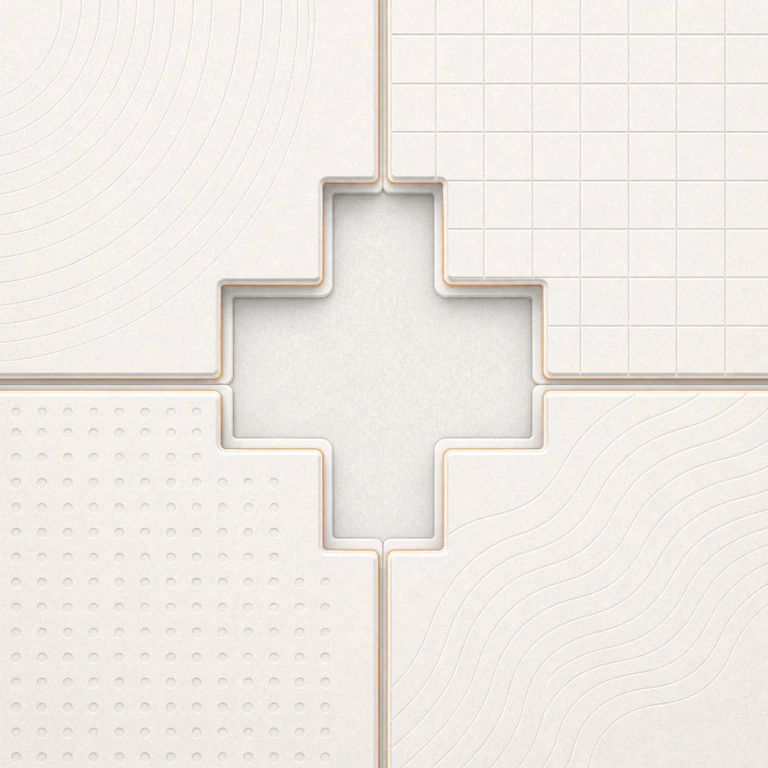
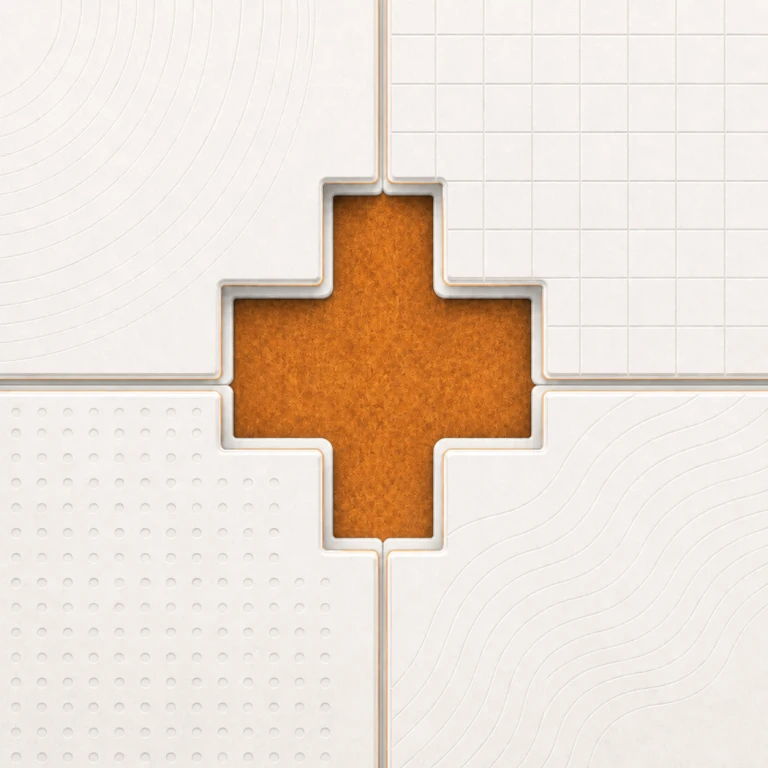
refactor: migrate third-party games to community games

Changed region(s): [[0.2812, 0.25, 0.7188, 0.7188]]

diff --git a/frontend/src/communityGameRegistry.ts b/frontend/src/communityGameRegistry.ts
@@ -5,10 +5,10 @@ import type {
   GameRegistration,
 } from './game-platform/types'
 import { createScoredGameRecords } from './game-platform/recordFormatting'
-import { GENERATED_THIRD_PARTY_GAME_MODULES } from './generated/thirdPartyGameModules'
+import { GENERATED_COMMUNITY_GAME_MODULES } from './generated/communityGameModules'
 import type { PluginArcadeGameKey } from './types/arcade'
 
-export interface ThirdPartyGameManifest {
+export interface CommunityGameManifest {
   $schema?: string
   apiVersion: 1
   version: string
@@ -48,11 +48,11 @@ export interface GeneratedPluginModule {
   status: GameAvailability
   order: number
   artwork?: BuiltinGameArtwork
-  manifest: ThirdPartyGameManifest
+  manifest: CommunityGameManifest
   loadView: () => Promise<PluginViewModule>
 }
 
-function defaultRules(manifest: ThirdPartyGameManifest): Record<string, unknown> {
+function defaultRules(manifest: CommunityGameManifest): Record<string, unknown> {
   const defaults: Record<string, unknown> = {
     allowSpectators: manifest.capabilities.spectators,
   }
@@ -68,7 +68,7 @@ function defaultRules(manifest: ThirdPartyGameManifest): Record<string, unknown>
 }
 
 function ruleLabels(
-  manifest: ThirdPartyGameManifest,
+  manifest: CommunityGameManifest,
   options: Readonly<Record<string, unknown>>,
 ): string[] {
   const labels = [...(manifest.ruleLabels ?? [])]
@@ -78,7 +78,7 @@ function ruleLabels(
   return labels
 }
 
-export function buildThirdPartyGameRegistration(
+export function buildCommunityGameRegistration(
   generated: GeneratedPluginModule,
 ): GameRegistration<PluginArcadeGameKey> {
   const { artwork, directory, manifest, order, status } = generated
@@ -88,7 +88,7 @@ export function buildThirdPartyGameRegistration(
       setup: () => () => h(
         'section',
         { class: 'surface plugin-game-load-error', role: 'alert' },
-        '第三方游戏界面加载失败，请联系插件作者。',
+        '社区游戏界面加载失败，请联系插件作者。',
       ),
     },
   })
@@ -97,7 +97,7 @@ export function buildThirdPartyGameRegistration(
     : createScoredGameRecords(manifest.records.scoreKind, manifest.name)
   return Object.freeze({
     key: manifest.id,
-    source: 'third_party',
+    source: 'community',
     availability: status,
     plugin: Object.freeze({
       version: manifest.version,
@@ -139,7 +139,7 @@ export function buildThirdPartyGameRegistration(
   })
 }
 
-export const THIRD_PARTY_GAME_REGISTRATIONS = Object.freeze(
-  (GENERATED_THIRD_PARTY_GAME_MODULES as readonly GeneratedPluginModule[])
-    .map(buildThirdPartyGameRegistration),
+export const COMMUNITY_GAME_REGISTRATIONS = Object.freeze(
+  (GENERATED_COMMUNITY_GAME_MODULES as readonly GeneratedPluginModule[])
+    .map(buildCommunityGameRegistration),
 )

diff --git a/frontend/src/communityGameRegistry.test.ts b/frontend/src/communityGameRegistry.test.ts
@@ -1,22 +1,22 @@
 import { defineComponent } from 'vue'
-import { GENERATED_THIRD_PARTY_GAME_MODULES } from './generated/thirdPartyGameModules'
+import { GENERATED_COMMUNITY_GAME_MODULES } from './generated/communityGameModules'
 import {
-  buildThirdPartyGameRegistration,
-  THIRD_PARTY_GAME_REGISTRATIONS,
+  buildCommunityGameRegistration,
+  COMMUNITY_GAME_REGISTRATIONS,
   type GeneratedPluginModule,
-  type ThirdPartyGameManifest,
-} from './thirdPartyGameRegistry'
+  type CommunityGameManifest,
+} from './communityGameRegistry'
 
-describe('third-party game registrations', () => {
+describe('community game registrations', () => {
   it('adapts every generated module without knowing concrete plugin ids', () => {
     const generatedModules = (
-      GENERATED_THIRD_PARTY_GAME_MODULES as readonly GeneratedPluginModule[]
+      GENERATED_COMMUNITY_GAME_MODULES as readonly GeneratedPluginModule[]
     )
-    expect(THIRD_PARTY_GAME_REGISTRATIONS.map(({ key }) => key)).toEqual([
+    expect(COMMUNITY_GAME_REGISTRATIONS.map(({ key }) => key)).toEqual([
       ...generatedModules.map(({ manifest }) => manifest.id),
     ])
-    expect(THIRD_PARTY_GAME_REGISTRATIONS.every(
-      ({ source }) => source === 'third_party',
+    expect(COMMUNITY_GAME_REGISTRATIONS.every(
+      ({ source }) => source === 'community',
     )).toBe(true)
   })
 
@@ -45,7 +45,7 @@ describe('third-party game registrations', () => {
       },
       records: { scoreKind: 'time_trial' },
       defaultOptions: { listed: false },
-    } as const satisfies ThirdPartyGameManifest
+    } as const satisfies CommunityGameManifest
     const generated: GeneratedPluginModule = {
       directory: 'plugin-test-game',
       status: 'enabled',
@@ -58,11 +58,11 @@ describe('third-party game registrations', () => {
       loadView: async () => ({ default: defineComponent({ template: '<main />' }) }),
     }
 
-    const registration = buildThirdPartyGameRegistration(generated)
+    const registration = buildCommunityGameRegistration(generated)
 
     expect(registration).toMatchObject({
       key: 'plugin-test-game',
-      source: 'third_party',
+      source: 'community',
       availability: 'enabled',
       catalog: {
         name: '测试插件',

diff --git a/frontend/src/components/GameCategoryCard.vue b/frontend/src/components/GameCategoryCard.vue
@@ -90,6 +90,7 @@ const categoryArtwork = computed(() => {
 <style scoped>
 .game-category-card {
   --category-tone: var(--accent);
+  --category-accent-ink: color-mix(in srgb, var(--category-tone) 74%, var(--text));
   position: relative;
   min-width: 0;
   min-height: 230px;
@@ -159,7 +160,7 @@ const categoryArtwork = computed(() => {
   display: inline-flex;
   align-items: center;
   gap: 7px;
-  color: color-mix(in srgb, var(--category-tone) 76%, var(--text-soft));
+  color: var(--category-accent-ink);
   font-size: 9px;
   font-weight: 800;
   letter-spacing: .09em;
@@ -169,8 +170,8 @@ const categoryArtwork = computed(() => {
   width: 17px;
   height: 2px;
   border-radius: 999px;
-  background: var(--category-tone);
-  box-shadow: 0 0 9px color-mix(in srgb, var(--category-tone) 42%, transparent);
+  background: var(--category-accent-ink);
+  box-shadow: 0 0 9px color-mix(in srgb, var(--category-accent-ink) 42%, transparent);
 }
 
 .category-card-copy > strong {
@@ -218,7 +219,7 @@ const categoryArtwork = computed(() => {
 }
 
 .category-card-meta b { color: var(--text-soft); }
-.category-card-meta em { color: color-mix(in srgb, var(--category-tone) 72%, var(--muted)); }
+.category-card-meta em { color: var(--category-accent-ink); }
 
 .category-card-art {
   position: relative;
@@ -301,9 +302,9 @@ const categoryArtwork = computed(() => {
   aspect-ratio: 1;
   display: grid;
   place-items: center;
-  border: 1px solid color-mix(in srgb, var(--category-tone) 26%, var(--line));
+  border: 1px solid color-mix(in srgb, var(--category-accent-ink) 26%, var(--line));
   border-radius: 50%;
-  color: color-mix(in srgb, var(--category-tone) 74%, var(--text));
+  color: var(--category-accent-ink);
   background: var(--control-surface), var(--surface-inset);
   box-shadow: var(--shadow-contact), inset 0 1px 0 color-mix(in srgb, var(--panel-highlight) 42%, transparent);
   font-style: normal;

diff --git a/frontend/src/views/GameHall.test.ts b/frontend/src/views/GameHall.test.ts
@@ -1,6 +1,6 @@
 import { createPinia } from 'pinia'
 import { mount } from '@vue/test-utils'
-import { THIRD_PARTY_GAME_REGISTRATIONS } from '../thirdPartyGameRegistry'
+import { COMMUNITY_GAME_REGISTRATIONS } from '../communityGameRegistry'
 import { useArcadeStore } from '../stores/arcade'
 import GameHall from './GameHall.vue'
 
@@ -33,16 +33,16 @@ describe('GameHall', () => {
     expect(wrapper.get('[aria-label="打开设置"]').attributes('aria-label')).toBe('打开设置')
     expect(wrapper.get('[aria-label="查看社区游戏分类"]').text()).toContain('社区游戏')
     expect(wrapper.get('[aria-label="查看社区游戏分类"]').text()).toContain(
-      `${THIRD_PARTY_GAME_REGISTRATIONS.length} 款游戏`,
+      `${COMMUNITY_GAME_REGISTRATIONS.length} 款游戏`,
     )
     await wrapper.get('.account-bar-actions [aria-label="打开设置"]').trigger('click')
     expect(wrapper.emitted('settings')).toHaveLength(1)
     await wrapper.get('[aria-label="查看社区游戏分类"]').trigger('click')
-    expect(wrapper.findAll('.game-library-card')).toHaveLength(THIRD_PARTY_GAME_REGISTRATIONS.length)
-    for (const registration of THIRD_PARTY_GAME_REGISTRATIONS) {
+    expect(wrapper.findAll('.game-library-card')).toHaveLength(COMMUNITY_GAME_REGISTRATIONS.length)
+    for (const registration of COMMUNITY_GAME_REGISTRATIONS) {
       expect(wrapper.text()).toContain(registration.catalog.name)
     }
-    if (!THIRD_PARTY_GAME_REGISTRATIONS.length) {
+    if (!COMMUNITY_GAME_REGISTRATIONS.length) {
       expect(wrapper.get('[role="status"]').text()).toContain('社区作品正在准备中')
     }
     await wrapper.get('[aria-label="返回游戏分类"]').trigger('click')

diff --git a/frontend/src/gameCategories.test.ts b/frontend/src/gameCategories.test.ts
@@ -2,7 +2,7 @@ import { GAME_CATALOG } from './gameCatalog'
 import { buildGameCategories } from './gameCategories'
 
 const officialGames = GAME_CATALOG.filter((game) => game.source === 'official')
-const communityGames = GAME_CATALOG.filter((game) => game.source === 'third_party')
+const communityGames = GAME_CATALOG.filter((game) => game.source === 'community')
 
 describe('game categories', () => {
   it('assigns every published game to exactly one product category', () => {
@@ -31,11 +31,11 @@ describe('game categories', () => {
     expect(categorizedKeys).toHaveLength(GAME_CATALOG.length)
   })
 
-  it('automatically places newly registered third-party games in the community category', () => {
+  it('automatically places newly registered community games in the community category', () => {
     const pluginGame = {
       ...officialGames[0]!,
       key: 'plugin-new-community-game' as const,
-      source: 'third_party' as const,
+      source: 'community' as const,
     }
 
     const community = buildGameCategories([

diff --git a/frontend/src/game-platform/registry.ts b/frontend/src/game-platform/registry.ts
@@ -17,7 +17,7 @@ import reactionGame from '../games/reaction'
 import schulteGame from '../games/schulte'
 import tetrisGame from '../games/tetris'
 import xiangqiGame from '../games/xiangqi'
-import { THIRD_PARTY_GAME_REGISTRATIONS } from '../thirdPartyGameRegistry'
+import { COMMUNITY_GAME_REGISTRATIONS } from '../communityGameRegistry'
 import type { ArcadeGameKey, BuiltinArcadeGameKey } from '../types/arcade'
 import type { GameRegistration } from './types'
 
@@ -45,7 +45,7 @@ export const BUILTIN_GAME_REGISTRATIONS = [
 
 export const GAME_REGISTRATIONS: readonly GameRegistration[] = Object.freeze([
   ...BUILTIN_GAME_REGISTRATIONS,
-  ...THIRD_PARTY_GAME_REGISTRATIONS,
+  ...COMMUNITY_GAME_REGISTRATIONS,
 ])
 
 const registrationsByKey = new Map<ArcadeGameKey, GameRegistration>()

diff --git a/frontend/src/components/SoloChallengeLauncher.vue b/frontend/src/components/SoloChallengeLauncher.vue
@@ -55,10 +55,10 @@ const challenge = computed<RenderedSoloChallenge>(() => {
   return {
     icon: Gamepad2,
     accent: '#7794a8',
-    category: '第三方单人挑战',
-    kicker: '第三方单人挑战',
+    category: '社区单人挑战',
+    kicker: '社区单人挑战',
     title: game?.name ?? '插件挑战',
-    description: game?.description ?? '由第三方插件提供的单人挑战。',
+    description: game?.description ?? '由社区插件提供的单人挑战。',
     button: `进入${game?.name ?? '插件挑战'}`,
     features: ['自动创建单人房间', '服务端规则验证', '独立战绩与排行'],
     metrics: [

diff --git a/frontend/src/components/GameCategoryBrowser.test.ts b/frontend/src/components/GameCategoryBrowser.test.ts
@@ -2,7 +2,7 @@ import { mount } from '@vue/test-utils'
 import { GAME_CATALOG } from '../gameCatalog'
 import GameCategoryBrowser from './GameCategoryBrowser.vue'
 
-const communityGames = GAME_CATALOG.filter((game) => game.source === 'third_party')
+const communityGames = GAME_CATALOG.filter((game) => game.source === 'community')
 
 describe('GameCategoryBrowser', () => {
   it('shows category modules before revealing the games in a category', async () => {

diff --git a/frontend/src/gameCategories.ts b/frontend/src/gameCategories.ts
@@ -86,7 +86,7 @@ export function buildGameCategories(
   games: readonly GameCatalogEntry[],
 ): readonly GameCategory[] {
   const officialGames = games.filter((game) => game.source === 'official')
-  const communityGames = games.filter((game) => game.source === 'third_party')
+  const communityGames = games.filter((game) => game.source === 'community')
   const gameByKey = indexedGames(officialGames)
   const assignedKeys = new Set<string>()
 

diff --git a/frontend/vite.config.ts b/frontend/vite.config.ts
@@ -20,7 +20,7 @@ export default defineConfig({
     environment: 'jsdom',
     include: [
       'src/**/*.{test,spec}.{js,mjs,cjs,ts,mts,cts,jsx,tsx}',
-      '../third_party_games/**/*.{test,spec}.{js,mjs,cjs,ts,mts,cts,jsx,tsx}',
+      '../community_games/**/*.{test,spec}.{js,mjs,cjs,ts,mts,cts,jsx,tsx}',
     ],
   },
   server: {

diff --git a/frontend/src/game-platform/types.ts b/frontend/src/game-platform/types.ts
@@ -11,7 +11,7 @@ import type {
   BuiltinArcadeGameKey,
 } from '../types/arcade'
 
-export type GameSource = 'official' | 'third_party'
+export type GameSource = 'official' | 'community'
 export type GameAvailability = 'enabled' | 'deprecated'
 
 export type BuiltinGameRoomLayout = 'standard' | 'wide' | 'immersive'

diff --git a/backend/app/games/plugins.py b/backend/app/games/plugins.py
@@ -107,12 +107,12 @@ class GamePluginValidationError(ValueError):
     def __init__(self, issues: list[str]) -> None:
         self.issues = tuple(issues)
         super().__init__(
-            "第三方游戏插件校验失败：\n- " + "\n- ".join(self.issues)
+            "社区游戏插件校验失败：\n- " + "\n- ".join(self.issues)
         )
 
 
-def third_party_games_root() -> Path:
-    return Path(__file__).resolve().parents[3] / "third_party_games"
+def community_games_root() -> Path:
+    return Path(__file__).resolve().parents[3] / "community_games"
 
 
 def discover_game_plugins(root: Path | None = None) -> list[GamePlugin]:
@@ -132,7 +132,7 @@ def _collect_game_plugins(
     *,
     fail_on_error: bool,
 ) -> list[GamePlugin]:
-    plugin_root = root or third_party_games_root()
+    plugin_root = root or community_games_root()
     try:
         if not _plugin_repository_available(plugin_root):
             return []
@@ -143,7 +143,7 @@ def _collect_game_plugins(
                 [f"registry.json: {_error_reason(error)}"]
             ) from error
         logger.exception(
-            "Third-party game registry was disabled",
+            "Community game registry was disabled",
             extra={"event": "game_plugin.registry_disabled"},
         )
         return []
@@ -175,7 +175,7 @@ def _collect_game_plugins(
                 issues.append(issue)
                 continue
             logger.exception(
-                "Third-party game plugin was disabled",
+                "Community game plugin was disabled",
                 extra={
                     "event": "game_plugin.disabled",
                     "plugin_id": entry.id,
@@ -193,7 +193,7 @@ def _plugin_repository_available(root: Path) -> bool:
     if not root.exists():
         return False
     if not root.is_dir():
-        raise ValueError("第三方游戏路径必须是目录")
+        raise ValueError("社区游戏路径必须是目录")
     if (root / "registry.json").is_file():
         return True
     if any(root.iterdir()):
@@ -249,7 +249,7 @@ def _read_registry(root: Path) -> list[PluginRegistryEntry]:
             raise ValueError(f"{label}.path 必须是安全的相对目录")
         directory = root.joinpath(*pure_path.parts).resolve()
         if not directory.is_relative_to(root_resolved):
-            raise ValueError(f"{label}.path 不能离开第三方仓库")
+            raise ValueError(f"{label}.path 不能离开社区仓库")
         if status not in PLUGIN_REGISTRY_STATUSES:
             raise ValueError(
                 f"{label}.status 只能是 enabled、deprecated 或 disabled"
@@ -442,7 +442,7 @@ def _build_registration(
             ai=capabilities["ai"],
         ),
         records=GameRecords(score_kind=manifest["records"]["scoreKind"]),
-        source="third_party",
+        source="community",
         availability=(
             "deprecated" if entry.status == "deprecated" else "enabled"
         ),
